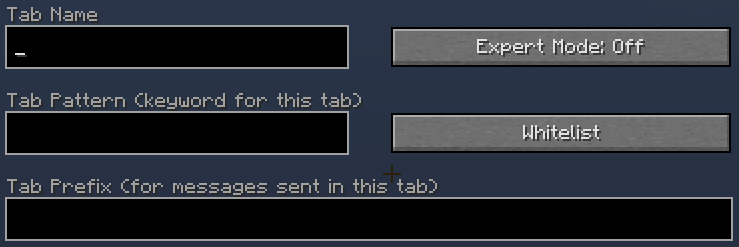
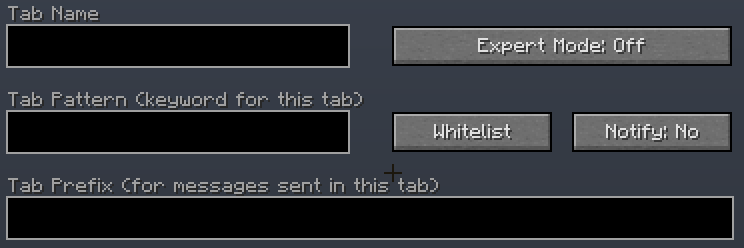
updated info for simpletabs 1.2.0

diff --git a/SimpleTabs/index.html b/SimpleTabs/index.html
@@ -89,10 +89,14 @@
             but a <a href="https://www.debuggex.com/">Java regular expression</a>.
           </p>
           <p>
-            The button below that toggles the tab between <strong>whitelist</strong> mode and
+            The button below that on th left toggles the tab between <strong>whitelist</strong> mode and
             <strong>blacklist</strong> mode. In whitelist mode, only messages matching the pattern
             are displayed in the tab. On the other hand in blacklist mode only messages that are not
             matching the pattern are displayed in the tab.
+          </p>
+          <p>
+            The button right next to it toggles <strong>sound notifications</strong> for this tab.
+            If this is enabled a sound will be played whenever a new message is received in this tab.
           </p>
           <p>
             Finally there is the text field for the <strong>prefix</strong>.
@@ -103,11 +107,11 @@
         <h3>Releases</h3><a name="releases"></a>
           The number in parenthesis specifies the Forge build the release was tested with.<br>
           <p>
-            <a href="https://github.com/LordKorea/SimpleTabs/releases/download/v1.1.0/simpletabs-1.1.0-1.12.2.2623.jar">Release 1.1.0 for Minecraft 1.12.2 (#2623)</a><br>
-            <a href="https://github.com/LordKorea/SimpleTabs/releases/download/v1.1.0/simpletabs-1.1.0-1.11.2.2588.jar">Release 1.1.0 for Minecraft 1.11.2 (#2588)</a><br>
-            <a href="https://github.com/LordKorea/SimpleTabs/releases/download/v1.1.0/simpletabs-1.1.0-1.10.2.2511.jar">Release 1.1.0 for Minecraft 1.10.2 (#2511)</a><br>
-            <a href="https://github.com/LordKorea/SimpleTabs/releases/download/v1.1.0/simpletabs-1.1.0-1.9.4.2051.jar">Release 1.1.0 for Minecraft 1.9.4 (#2051)</a><br>
-            <a href="https://github.com/LordKorea/SimpleTabs/releases/download/v1.1.0/simpletabs-1.1.0-1.8.9.2318.jar">Release 1.1.0 for Minecraft 1.8.9 (#2318)</a><br>
+            <a href="https://github.com/LordKorea/SimpleTabs/releases/download/v1.2.0/simpletabs-1.2.0-1.12.2.2623.jar">Release 1.2.0 for Minecraft 1.12.2 (#2623)</a><br>
+            <a href="https://github.com/LordKorea/SimpleTabs/releases/download/v1.2.0/simpletabs-1.2.0-1.11.2.2588.jar">Release 1.2.0 for Minecraft 1.11.2 (#2588)</a><br>
+            <a href="https://github.com/LordKorea/SimpleTabs/releases/download/v1.2.0/simpletabs-1.2.0-1.10.2.2511.jar">Release 1.2.0 for Minecraft 1.10.2 (#2511)</a><br>
+            <a href="https://github.com/LordKorea/SimpleTabs/releases/download/v1.2.0/simpletabs-1.2.0-1.9.4.2051.jar">Release 1.2.0 for Minecraft 1.9.4 (#2051)</a><br>
+            <a href="https://github.com/LordKorea/SimpleTabs/releases/download/v1.2.0/simpletabs-1.2.0-1.8.9.2318.jar">Release 1.2.0 for Minecraft 1.8.9 (#2318)</a><br>
           </p>
 
         <h3>Issues, Bugs, Questions</h3>
